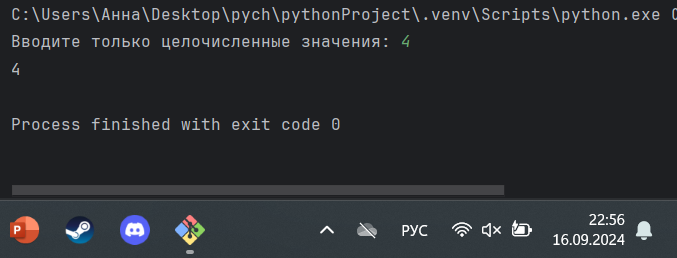
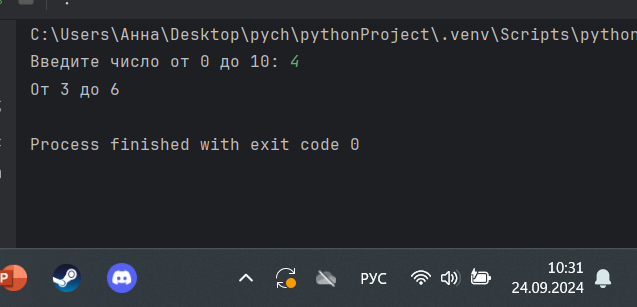
Третий коммит

diff --git a/14.py b/14.py
@@ -1,2 +1,8 @@
-a = "ЛюблюДелатьЛабы"
-print(a*3)
+Phrase = input("Напишите предложение на английском: ").lower()
+Quantity = 0
+for letter in Phrase:
+    if letter == "a" or letter == "e" or letter == "i" or letter == "o" or letter == "u":
+        Quantity+=1
+NewPhrase = Phrase.replace("ugly", "beauty")
+print(f"Длина предложения = {len(Phrase)} символов. \nКоличество искомых гласных = {Quantity}. \nНовая фраза = {NewPhrase}."
+      f"\n Начинается ли предложение с The - {NewPhrase.startswith('The')}. \nЗаканчивается ли на end - {NewPhrase.endswith('end')}")

diff --git a/6.py b/6.py
@@ -1,6 +1,9 @@
-a = 22
-b = 4
-print('Возведение в степень: ', a ** b)
-print('Обычное деление: ', a / b)
-print('Целочисленное деление: ', a // b)
-print('Нахождение остатка от деления: ', a % b)
+string = "привет всем изучающим Phyton!"
+value = input()
+for i in string:
+    if i == value:
+        index = string.find(value)
+        print(f"Буква '{value}' есть в строке под {index} индексом")
+        break
+else:
+    print(f"Буквы '{value}' нет в указанной строке")

diff --git a/4.py b/4.py
@@ -1,8 +1,9 @@
-one = 'Hello'
-print(bool(one))
-
-two = 142
-print(float(two))
-
-three = None
-print(str(three))
+numbers = [1, 3, 4, 6, 8, 9, 15, 16, 73, 321, 322]
+value = int(input("Введите значение перемнной: "))
+if value in numbers:
+    if value % 2 == 0:
+      print("Переменная четная и есть в данном массиве")
+    else:
+        print("Переменная нечетная и есть в данном массиве")
+else:
+    print(f"Переменной нет в этом массиве, и она равна {value}")

diff --git a/3.py b/3.py
@@ -1,8 +1,6 @@
-print('Привет, Мир!')
-
-world = 'Мир'
-print(f'Привет, {world}!')
-
-one = 'Привет, '
-two = 'Мир!'
-print(one + two)
+numbers = [1, 3, 4, 6, 8, 9]
+value = int(input("Введите значение перемнной: "))
+if value in numbers:
+    print("Переменная есть в данном массиве")
+else:
+    print("Переменной нет в этом массиве")

diff --git a/13.py b/13.py
@@ -1,2 +1,9 @@
-number = int(input("Вводите только целочисленные значения: "))
-print(number)
+c = int(input("Введите число от 0 до 10: "))
+if c>10 or c<0:
+    print("Числе не в диапазоне.")
+elif (c >= 0 and c < 4):
+    print("От 0 до 3")
+elif (c >= 4 and c < 6):
+    print("От 3 до 6")
+elif (c >= 6 and c < 11):
+    print("От 6 до 10")

diff --git a/5.py b/5.py
@@ -1,4 +1,12 @@
-one = input('one: ')
-two = input('two: ')
-three = input('three: ')
-print(one, two, three)
+for i in range(10):
+    print("i = ", i)
+    if i == 0:
+        i += 2
+    if i == 1:
+        continue
+    if i == 2 or i == 3:
+        print("Переменная равна 2 или 3")
+    elif i in [4, 5, 6]:
+        print("Переменная равна 4, 5 или 6")
+    else:
+        break

diff --git a/15.py b/15.py
@@ -1,2 +1,12 @@
-day = 16; month = "Сентября"; year = 2024
-print(f"Сегодня {day} {month} {year}.", end=" Всего хорошего!" )
+counter = 0
+string = 'hello'
+values = [0,2,4,6,8,10]
+while counter != 10:
+    memory = string
+    if counter in values:
+        string = string + ' world'
+    print(string)
+    string = memory
+    counter+=1
+memory = ' world'
+print(string + memory)

diff --git a/2.py b/2.py
@@ -1,3 +1,7 @@
-print(1249+1324)
-print(6.2+53.3)
-print(4 + 4.1 + 4.34 + 2)
+one = int(input("Введите значение первой переменной: "))
+if one < 0:
+    print("Переменная меньше 0")
+elif 0 < one < 10:
+    print("Перемнная больше 0 и меньше 10")
+else:
+    print("Переменная больше 10")

diff --git a/10.py b/10.py
@@ -1,3 +1,9 @@
-line = 'Hello world'
-print(line[1])
-print(line[:5])
+even_array = [2, 4, 6, 8, 9]
+flag = False
+for value in even_array:
+    if value % 2 == 1:
+        flag = True
+if flag is True:
+    print("В массиве есть нечетное число")
+else:
+    print("В массиве все числа четные")

diff --git a/1.py b/1.py
@@ -1,3 +1,6 @@
-print(123)
-print('321')
-print(3.21)
+one = int(input("Введите значение первой переменной: "))
+two = int(input("Введите значение второй переменной: "))
+if one >= two:
+    print("Выполняется")
+else:
+    print("Не выполняется")

diff --git a/8.py b/8.py
@@ -1,2 +1,9 @@
-line = "Hello world"
-print(line.count('o'))
+value = 0
+while value < 100:
+    if value == 0:
+        value += 10
+    elif value // 5 > 1:
+        value *= 5
+    else:
+        value -= 5
+    print(value)

diff --git a/9.py b/9.py
@@ -1,1 +1,8 @@
-print('Hello\nWorld!')
+value = 0
+for i in range(10):
+    for j in range(10):
+        if i != j:
+            value += j
+        else:
+            pass
+print(value)
